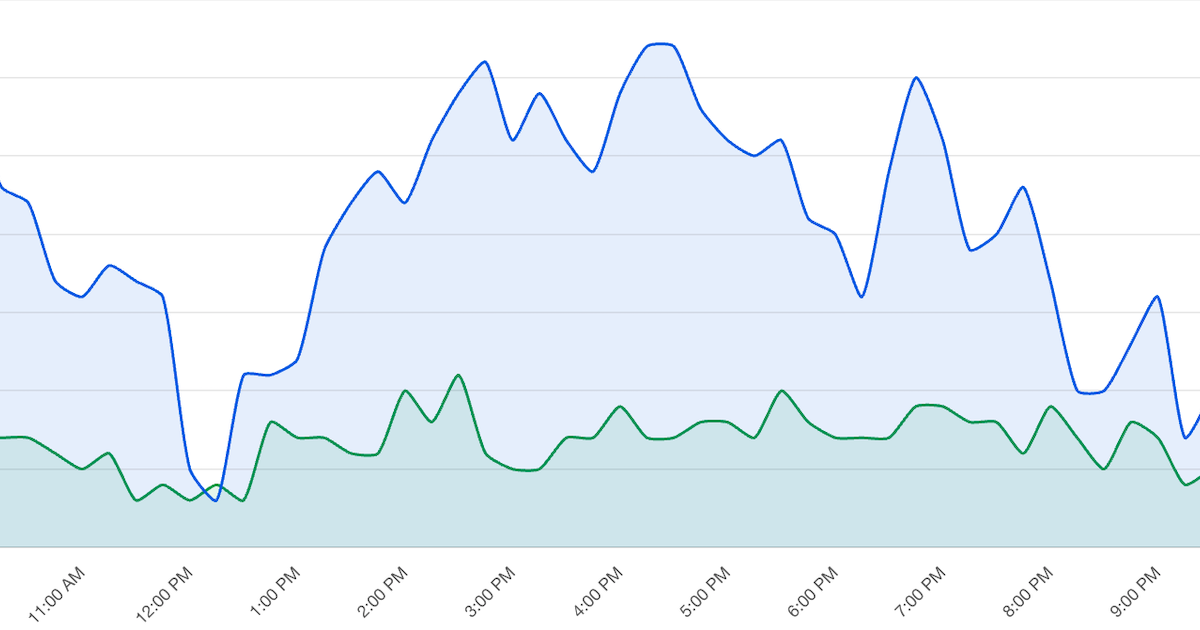
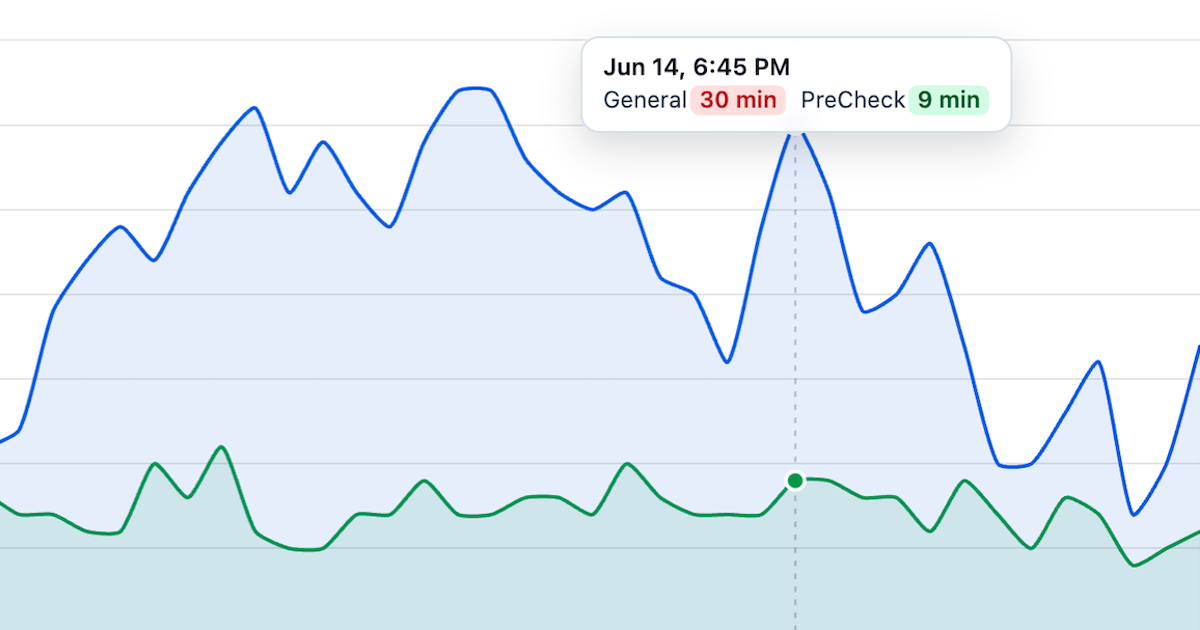
feat: social preview image tweaks

diff --git a/app.py b/app.py
@@ -215,7 +215,7 @@ def airport(code: str):
     location_phrase = f" in {airport_locale_line}" if airport_locale_line else ""
     page_title = f"TSA Wait Times at {c}"
     canonical_url = f"{SITE_BASE_URL}{url_for('airport', code=c)}"
-    social_image_url = f"{SITE_BASE_URL}{url_for('static', filename='social-preview-03.png')}"
+    social_image_url = f"{SITE_BASE_URL}{url_for('static', filename='social-preview-02.png')}"
     meta_description = (
         f"Live TSA security wait times for {airport_display_name} ({c})"
         f"{location_phrase}, updated throughout the day."